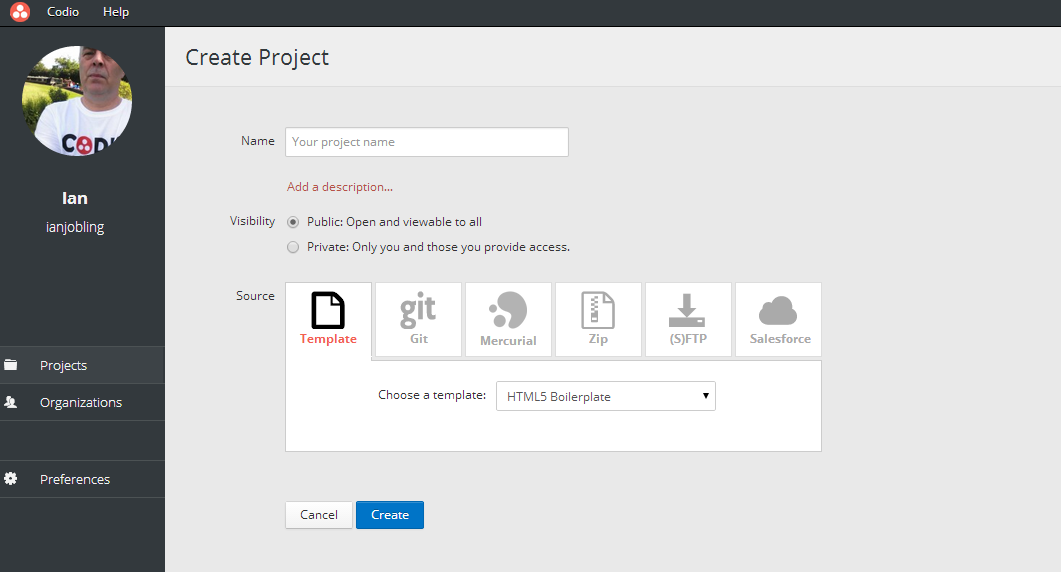
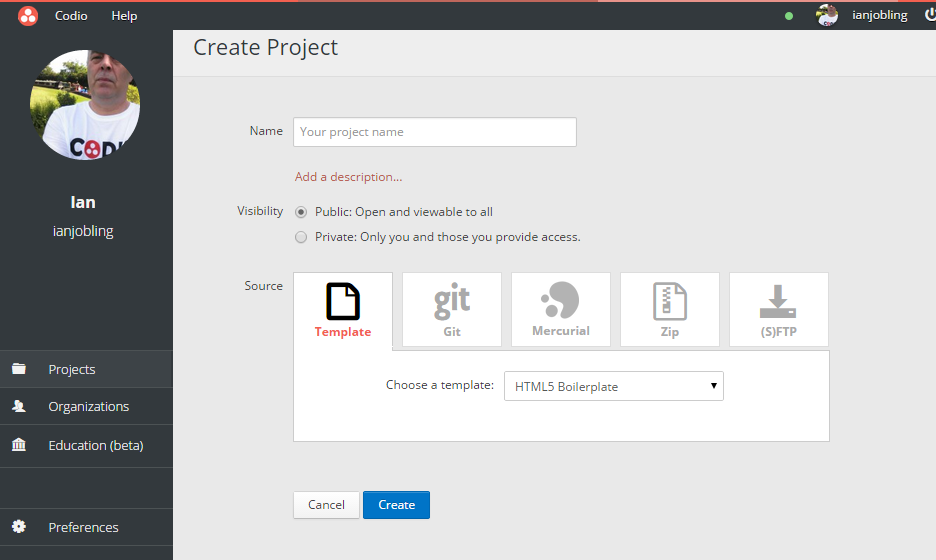
update screenshots

diff --git a/source/blog/articles/2013/10/more-creation-options.html.md b/source/blog/articles/2013/10/more-creation-options.html.md
@@ -22,4 +22,3 @@ So we now have six different ways to create a project in Codio:
 
 5. **FTP and SFTP** - The newest option is to import from any FTP server. Just specify the server you wish to import from, and we'll do the rest. We even support SFTP, which means that you can connect securely using your Codio SSH public key.
 
-6. **Salesforce** - If you work with Salesforce, we've integrated its Tooling API to allow you to work with your Salesforce classes and triggers. Just enter your credentials and we'll pull in your code with into Codio. You can then continue to pull and push your code to Salesforce.
